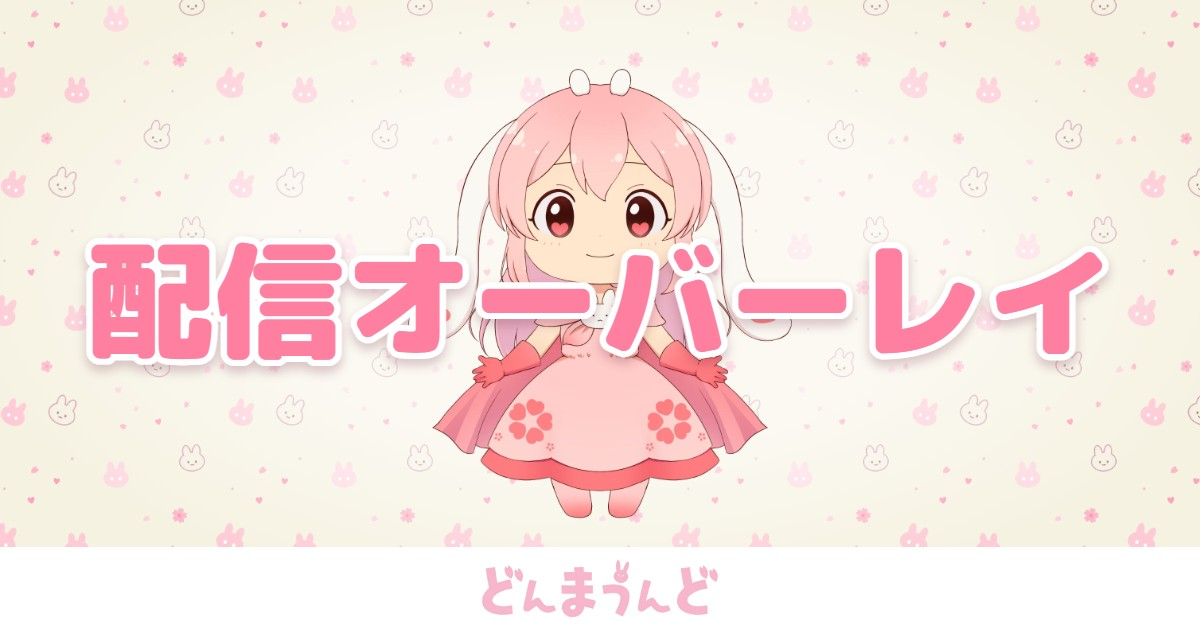
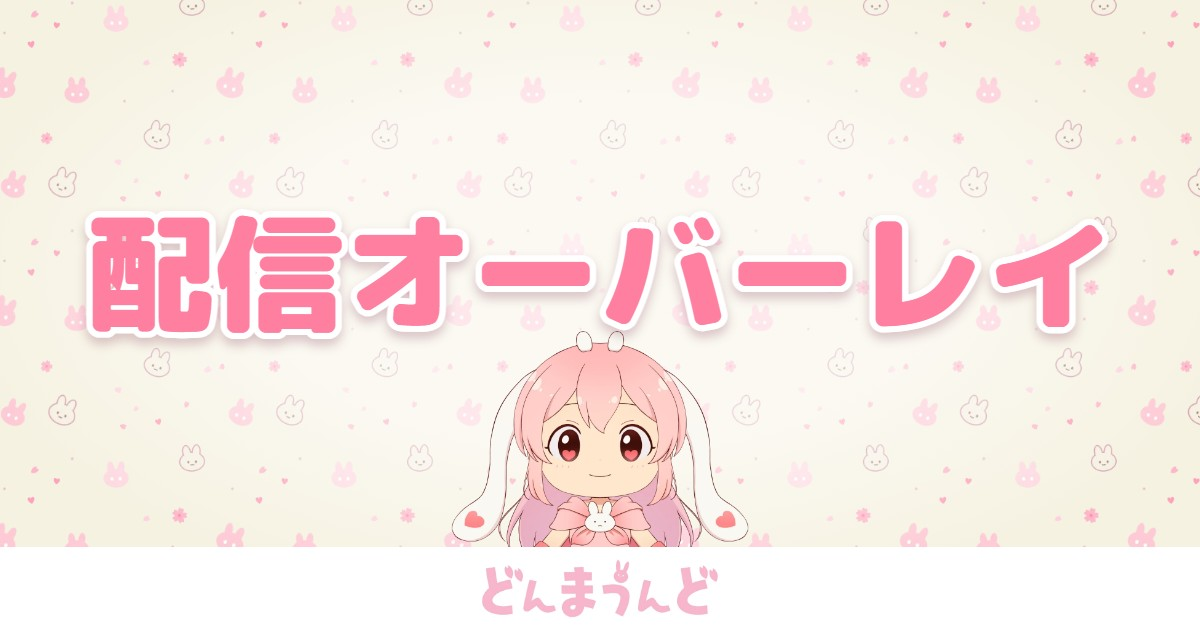
tools の OGP 画像をパターン2（文字が上・キャラが下の真ん中）に作り直す

Changed region(s): [[0.0617, 0.1206, 0.925, 0.8746], [0.7092, 0.3317, 0.7708, 0.3921], [0.8633, 0.5127, 0.8942, 0.6032]]

diff --git a/youtube-subscribers/index.html b/youtube-subscribers/index.html
@@ -13,7 +13,7 @@
   <meta property="og:type" content="website">
   <meta property="og:url" content="https://donnma.com/tool/youtube-subscribers/">
   <meta property="og:site_name" content="どんまうんど-Tools">
-  <meta property="og:image" content="https://donnma.com/tool/image/ogp-youtube-subscribers.jpg?v=20260929b">
+  <meta property="og:image" content="https://donnma.com/tool/image/ogp-youtube-subscribers.jpg?v=20261004a">
   <meta property="og:image:width" content="1200">
   <meta property="og:image:height" content="630">
   <meta property="og:image:alt" content="登録者数カウンター">

diff --git a/overlay/gaming_girly_neon/index.html b/overlay/gaming_girly_neon/index.html
@@ -14,7 +14,7 @@
     <meta property="og:type" content="website">
     <meta property="og:url" content="https://donnma.com/tool/overlay/gaming_girly_neon/">
     <meta property="og:site_name" content="どんまうんど-Tools">
-    <meta property="og:image" content="https://donnma.com/tool/image/ogp-overlay.jpg?v=20260929b">
+    <meta property="og:image" content="https://donnma.com/tool/image/ogp-overlay.jpg?v=20261004a">
     <meta property="og:image:width" content="1200">
     <meta property="og:image:height" content="630">
     <meta property="og:image:alt" content="配信オーバーレイ">

diff --git a/overlay/sweet_lolita_rose/index.html b/overlay/sweet_lolita_rose/index.html
@@ -14,7 +14,7 @@
     <meta property="og:type" content="website">
     <meta property="og:url" content="https://donnma.com/tool/overlay/sweet_lolita_rose/">
     <meta property="og:site_name" content="どんまうんど-Tools">
-    <meta property="og:image" content="https://donnma.com/tool/image/ogp-overlay.jpg?v=20260929b">
+    <meta property="og:image" content="https://donnma.com/tool/image/ogp-overlay.jpg?v=20261004a">
     <meta property="og:image:width" content="1200">
     <meta property="og:image:height" content="630">
     <meta property="og:image:alt" content="配信オーバーレイ">

diff --git a/overlay/cyberpunk-gaming/index.html b/overlay/cyberpunk-gaming/index.html
@@ -14,7 +14,7 @@
     <meta property="og:type" content="website">
     <meta property="og:url" content="https://donnma.com/tool/overlay/cyberpunk-gaming/">
     <meta property="og:site_name" content="どんまうんど-Tools">
-    <meta property="og:image" content="https://donnma.com/tool/image/ogp-overlay.jpg?v=20260929b">
+    <meta property="og:image" content="https://donnma.com/tool/image/ogp-overlay.jpg?v=20261004a">
     <meta property="og:image:width" content="1200">
     <meta property="og:image:height" content="630">
     <meta property="og:image:alt" content="配信オーバーレイ">

diff --git a/chat-css-generator/index.html b/chat-css-generator/index.html
@@ -13,7 +13,7 @@
   <meta property="og:type" content="website">
   <meta property="og:url" content="https://donnma.com/tool/chat-css-generator/">
   <meta property="og:site_name" content="どんまうんど-Tools">
-  <meta property="og:image" content="https://donnma.com/tool/image/ogp-chat-css.jpg?v=20260929b">
+  <meta property="og:image" content="https://donnma.com/tool/image/ogp-chat-css.jpg?v=20261004a">
   <meta property="og:image:width" content="1200">
   <meta property="og:image:height" content="630">
   <meta property="og:image:alt" content="チャットCSSジェネレーター">

diff --git a/overlay/citypop/index.html b/overlay/citypop/index.html
@@ -11,7 +11,7 @@
     <meta property="og:type" content="website">
     <meta property="og:url" content="https://donnma.com/tool/overlay/citypop/">
     <meta property="og:site_name" content="どんまうんど-Tools">
-    <meta property="og:image" content="https://donnma.com/tool/image/ogp-overlay.jpg?v=20260929b">
+    <meta property="og:image" content="https://donnma.com/tool/image/ogp-overlay.jpg?v=20261004a">
     <meta property="og:image:width" content="1200">
     <meta property="og:image:height" content="630">
     <meta property="og:image:alt" content="配信オーバーレイ">

diff --git a/overlay/gaming/index.html b/overlay/gaming/index.html
@@ -14,7 +14,7 @@
     <meta property="og:type" content="website">
     <meta property="og:url" content="https://donnma.com/tool/overlay/gaming/">
     <meta property="og:site_name" content="どんまうんど-Tools">
-    <meta property="og:image" content="https://donnma.com/tool/image/ogp-overlay.jpg?v=20260929b">
+    <meta property="og:image" content="https://donnma.com/tool/image/ogp-overlay.jpg?v=20261004a">
     <meta property="og:image:width" content="1200">
     <meta property="og:image:height" content="630">
     <meta property="og:image:alt" content="配信オーバーレイ">

diff --git a/overlay/pop/index.html b/overlay/pop/index.html
@@ -11,7 +11,7 @@
     <meta property="og:type" content="website">
     <meta property="og:url" content="https://donnma.com/tool/overlay/pop/">
     <meta property="og:site_name" content="どんまうんど-Tools">
-    <meta property="og:image" content="https://donnma.com/tool/image/ogp-overlay.jpg?v=20260929b">
+    <meta property="og:image" content="https://donnma.com/tool/image/ogp-overlay.jpg?v=20261004a">
     <meta property="og:image:width" content="1200">
     <meta property="og:image:height" content="630">
     <meta property="og:image:alt" content="配信オーバーレイ">

diff --git a/overlay/wa/index.html b/overlay/wa/index.html
@@ -11,7 +11,7 @@
     <meta property="og:type" content="website">
     <meta property="og:url" content="https://donnma.com/tool/overlay/wa/">
     <meta property="og:site_name" content="どんまうんど-Tools">
-    <meta property="og:image" content="https://donnma.com/tool/image/ogp-overlay.jpg?v=20260929b">
+    <meta property="og:image" content="https://donnma.com/tool/image/ogp-overlay.jpg?v=20261004a">
     <meta property="og:image:width" content="1200">
     <meta property="og:image:height" content="630">
     <meta property="og:image:alt" content="配信オーバーレイ">

diff --git a/tournament/index.html b/tournament/index.html
@@ -13,7 +13,7 @@
   <meta property="og:type" content="website">
   <meta property="og:url" content="https://donnma.com/tool/tournament/">
   <meta property="og:site_name" content="どんまうんど-Tools">
-  <meta property="og:image" content="https://donnma.com/tool/image/ogp-tournament.jpg?v=20260929b">
+  <meta property="og:image" content="https://donnma.com/tool/image/ogp-tournament.jpg?v=20261004a">
   <meta property="og:image:width" content="1200">
   <meta property="og:image:height" content="630">
   <meta property="og:image:alt" content="トーナメント表メーカー">

diff --git a/thumbnail/index.html b/thumbnail/index.html
@@ -13,7 +13,7 @@
   <meta property="og:type" content="website">
   <meta property="og:url" content="https://donnma.com/tool/thumbnail/">
   <meta property="og:site_name" content="どんまうんど-Tools">
-  <meta property="og:image" content="https://donnma.com/tool/image/ogp-thumbnail.jpg?v=20260929b">
+  <meta property="og:image" content="https://donnma.com/tool/image/ogp-thumbnail.jpg?v=20261004a">
   <meta property="og:image:width" content="1200">
   <meta property="og:image:height" content="630">
   <meta property="og:image:alt" content="サムネイルメーカー">

diff --git a/bg-remove/index.html b/bg-remove/index.html
@@ -13,7 +13,7 @@
   <meta property="og:type" content="website">
   <meta property="og:url" content="https://donnma.com/tool/bg-remove/">
   <meta property="og:site_name" content="どんまうんど-Tools">
-  <meta property="og:image" content="https://donnma.com/tool/image/ogp-bg-remove.jpg?v=20260929b">
+  <meta property="og:image" content="https://donnma.com/tool/image/ogp-bg-remove.jpg?v=20261004a">
   <meta property="og:image:width" content="1200">
   <meta property="og:image:height" content="630">
   <meta property="og:image:alt" content="背景透過ツール">
